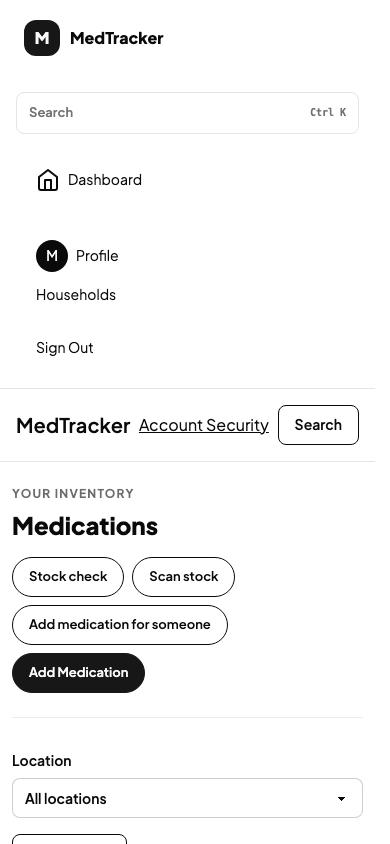
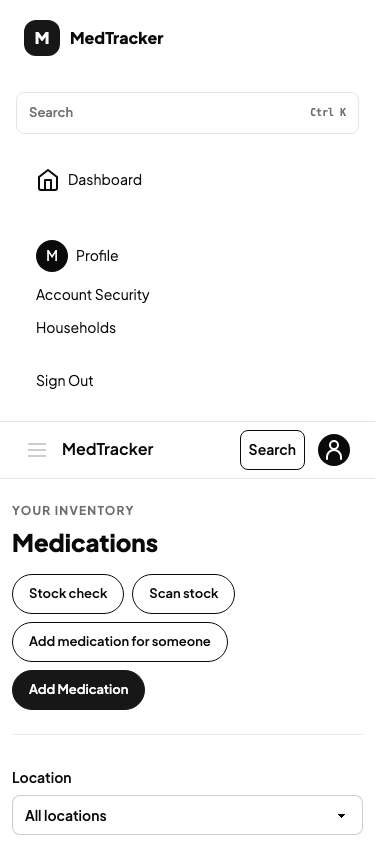
fix: render shared navigation header immediately (#3052)

diff --git a/assets/static/js/app-navigation.js b/assets/static/js/app-navigation.js
@@ -93,12 +93,10 @@
     const header = document.querySelector('.shell-header');
     const sidebar = document.querySelector('.app-sidebar');
     const sidebarTrigger = document.querySelector('[data-sidebar-account]');
-    const template = document.getElementById('app-navigation-template');
     const layout = document.querySelector('[data-app-drawer-layout]');
-    if (!header || !template || !layout || !data?.labels || installed) return;
+    if (!header || !layout || !data?.labels || installed) return;
     const labels = data.labels;
-    const searchTrigger = header?.querySelector('[data-global-search-trigger]');
-    const securityLink = header?.querySelector('a[href="/account/security"]');
+    const securityLink = document.querySelector('[data-account-security-fallback]')?.cloneNode(true);
     const selected = data.selected_section;
     const menu = controls => {
       const list = element('ul', null, 'menu w-full');
@@ -241,6 +239,20 @@
           panel.classList.toggle('dropdown-bottom', trigger !== sidebarTrigger);
           panel.classList.toggle('dropdown-end', trigger !== sidebarTrigger);
         });
+        if (trigger.tagName === 'A') {
+          trigger.setAttribute('role', 'button');
+          trigger.setAttribute('aria-controls', panel.id);
+          trigger.addEventListener('click', event => {
+            event.preventDefault();
+            if (panel.matches(':popover-open')) panel.close();
+            else panel.showPopover({ source: trigger });
+          });
+          trigger.addEventListener('keydown', event => {
+            if (event.key !== ' ') return;
+            event.preventDefault();
+            trigger.click();
+          });
+        }
         trigger.addEventListener('keydown', event => {
           if (event.key !== 'ArrowDown') return;
           event.preventDefault();
@@ -248,6 +260,7 @@
           panel.querySelector('button, a[href]')?.focus({ preventScroll: true });
         });
         trigger.hidden = false;
+        trigger.disabled = false;
       }
       panel.addEventListener('beforetoggle', event => {
         if (event.newState !== 'open') return;
@@ -267,11 +280,10 @@
       return panel;
     };
     if (header) {
-      header.replaceChildren(template.content.cloneNode(true));
-      if (searchTrigger) header.querySelector('.app-header').insertBefore(searchTrigger, header.querySelector('[data-app-account]'));
       const drawerTrigger = header.querySelector('[data-app-drawer]');
       const navigationDrawer = drawer(drawerTrigger);
       drawerTrigger.setAttribute('aria-label', labels.mobile_menu.open_menu);
+      drawerTrigger.disabled = false;
       const navigation = element('nav');
       navigation.setAttribute('aria-label', labels.mobile_rail.primary_navigation);
       const profile = data.choices.find(item => item.id === 'profile');
@@ -282,7 +294,7 @@
       header.querySelector('[data-account-name]').textContent = data.name;
       const avatar = header.querySelector('[data-profile-avatar]');
       avatar.classList.add('relative');
-      avatar.append(element('span', data.initials));
+      if (data.initials) avatar.replaceChildren(element('span', data.initials));
       if (data.avatar_attached || data.gravatar_url) {
         const image = element('img');
         image.src = data.avatar_attached ? `/households/${data.slug}/profile/avatar` : data.gravatar_url;
@@ -307,6 +319,7 @@
       sidebar.querySelector('[data-sidebar-name]').textContent = data.name;
       sidebar.querySelector('[data-sidebar-avatar]').replaceChildren(...[...header.querySelector('[data-profile-avatar]').childNodes].map(node => node.cloneNode(true)));
       sidebar.querySelector('[data-sidebar-profile]').hidden = true;
+      sidebar.querySelector('[data-sidebar-security]').hidden = true;
       const signOut = sidebar.querySelector('form[action="/logout"]');
       if (signOut) {
         signOut.querySelector("button").textContent = labels.sidebar.sign_out;
@@ -316,7 +329,7 @@
     const accountTriggers = [header.querySelector('[data-app-account]'), ...(sidebarTrigger ? [sidebarTrigger] : [])];
     const account = dropdown(accountTriggers);
     const accountControls = [];
-    for (const trigger of accountTriggers) trigger.setAttribute('aria-label', `${data.initials} ${data.name} ${labels.profile_menu.my_account}`);
+    for (const trigger of accountTriggers) trigger.setAttribute('aria-label', [data.initials, data.name, labels.profile_menu.my_account].filter(Boolean).join(' '));
     if (securityLink) {
       securityLink.className = 'min-w-0 whitespace-normal wrap-anywhere';
       accountControls.push(securityLink);
@@ -353,6 +366,25 @@
     account.append(logout());
     document.querySelector('[data-profile-navigation-fallback]')?.remove();
     document.body.dataset.navigationReady = 'true';
+    delete document.body.dataset.navigationFailed;
     installed = true;
   });
+  const standalone = document.querySelector('[data-standalone-navigation]');
+  if (standalone) {
+    const header = document.querySelector('.shell-header');
+    const accountName = header.querySelector('[data-account-name]').textContent;
+    document.dispatchEvent(new CustomEvent('app-navigation', { detail: {
+      labels: {
+        sidebar: { sign_out: standalone.querySelector('button[type="submit"]').textContent },
+        mobile_menu: { brand: header.querySelector('.app-brand').textContent, open_menu: header.querySelector('[data-app-drawer]').getAttribute('aria-label'), close_menu: standalone.dataset.closeMenu },
+        mobile_rail: { primary_navigation: standalone.getAttribute('aria-label') },
+        profile_menu: { my_account: accountName },
+      },
+      name: accountName,
+      navigation_label: standalone.getAttribute('aria-label'),
+      authenticity_token: standalone.querySelector('[name="authenticity_token"]').value,
+      sidebar: [...standalone.querySelectorAll('[data-section]')].map(anchor => ({ id: anchor.dataset.section, href: anchor.getAttribute('href'), label: anchor.textContent })),
+      choices: [],
+    } }));
+  }
 })();

diff --git a/assets/views/layouts/base.html b/assets/views/layouts/base.html
@@ -9,24 +9,27 @@
     <script src="/static/js/appearance.js"></script>
     <script src="/static/js/avatar-image.js"></script>
     <link rel="stylesheet" href="/static/css/compiled.css">
+    <noscript><link rel="stylesheet" href="/static/css/navigation-fallback.css"></noscript>
     <script src="/static/js/interaction.js" defer></script>
     <script src="/static/js/mobile-shortcuts.js" defer></script>
     <script src="/static/js/app-navigation.js" defer></script>
     {% if canary_enabled | default(value=false) %}<script src="/static/js/canary.js" defer></script>{% endif %}
   </head>
   <body{% if slug %} class="app-household"{% endif %}>
-    {% if slug %}<div class="drawer" data-app-drawer-layout><input id="app-drawer-toggle" type="checkbox" class="drawer-toggle" tabindex="-1" aria-hidden="true"><div class="drawer-content">{% endif %}
+    {% if slug or standalone_navigation | default(value=false) %}<div class="drawer" data-app-drawer-layout><input id="app-drawer-toggle" type="checkbox" class="drawer-toggle" tabindex="-1" aria-hidden="true"><div class="drawer-content">{% endif %}
     <a href="#main" class="skip-link">{% if labels %}{{ labels.layouts.navigation.skip_to_content }}{% else %}Skip to content{% endif %}</a>
     {% block header %}
     {% if slug %}{% include "components/app-sidebar.html" %}{% endif %}
     <header class="shell-header">
+      {% if slug or standalone_navigation | default(value=false) %}{% include "components/app-navigation.html" %}{% else %}
       <div class="shell-width shell-header-inner">
         <a href="/" class="text-xl font-semibold" aria-label="{% if labels %}{{ labels.layouts.navigation.home_link }}{% else %}MedTracker home{% endif %}">MedTracker</a>
         <a class="link" href="/account/security">{% if labels %}{{ labels.profiles.account_security.title }}{% else %}Account security{% endif %}</a>
-        {% if slug %}{% block search_trigger %}<button type="button" class="btn btn-outline" data-global-search-trigger aria-label="{% if labels %}{{ labels.global_search.open }}{% else %}Open global search{% endif %}" aria-controls="global_search_panel" aria-expanded="false">{% if labels %}{{ labels.global_search.open_short }}{% else %}Search{% endif %}</button>{% endblock search_trigger %}{% endif %}
       </div>
+      {% endif %}
     </header>
     {% endblock header %}
+    {% if standalone_navigation | default(value=false) %}{% include "components/standalone-navigation.html" %}{% endif %}
     {% if slug %}
     <dialog id="global_search_panel" aria-label="{% if labels %}{{ labels.global_search.dialog_label }}{% else %}Global search{% endif %}" data-global-search data-household="{{ slug }}" data-search-url="/households/{{ slug }}/search.json" data-labels-ready="{% if labels %}true{% else %}false{% endif %}" data-loading="{% if labels %}{{ labels.global_search.loading }}{% else %}Searching...{% endif %}" data-no-results="{% if labels %}{{ labels.global_search.no_results }}{% else %}No results{% endif %}" data-error="{% if labels %}{{ labels.global_search.error }}{% else %}Search is unavailable. Please try again.{% endif %}" data-retry="{% if labels %}{{ labels.global_search.retry }}{% else %}Retry search{% endif %}" data-result-one="{% if labels %}{{ labels.global_search.results.one }}{% else %}1 result{% endif %}" data-result-other="{% if labels %}{{ labels.global_search.results.other }}{% else %}%{count} results{% endif %}" data-type-command="{% if labels %}{{ labels.global_search.types.command }}{% else %}Commands{% endif %}" data-type-person="{% if labels %}{{ labels.global_search.types.person }}{% else %}People{% endif %}" data-type-medication="{% if labels %}{{ labels.global_search.types.medication }}{% else %}Medications{% endif %}" data-type-person-medication="{% if labels %}{{ labels.global_search.types.person_medication }}{% else %}Person medications{% endif %}" data-type-schedule="{% if labels %}{{ labels.global_search.types.schedule }}{% else %}Schedules{% endif %}" data-type-location="{% if labels %}{{ labels.global_search.types.location }}{% else %}Locations{% endif %}" class="modal">
       <div class="modal-box w-11/12 max-w-2xl overflow-hidden p-0">
@@ -37,10 +40,9 @@
     </dialog>
     <script src="/static/js/global-search.js" defer></script>
     {% endif %}
-    {% include "components/app-navigation.html" %}
     <main id="main" class="{% block main_class %}shell-width shell-main{% endblock main_class %}" tabindex="-1">{% if canary_enabled | default(value=false) %}{% include "components/canary-notice.html" %}{% endif %}{% block content %}{% endblock content %}</main>
     {% block footer %}<footer class="shell-footer"><div class="shell-width text-sm shell-muted">MedTracker · {% if labels %}{{ labels.layouts.navigation.care_tagline }}{% else %}Care, kept together.{% endif %}</div></footer>{% endblock footer %}
     {% block appearance %}{% endblock appearance %}
-    {% if slug %}</div><div class="drawer-side app-drawer-side" inert><label for="app-drawer-toggle" class="drawer-overlay" aria-hidden="true"></label><div id="app-drawer" class="app-navigation-panel app-drawer" role="dialog" aria-modal="true" tabindex="-1"></div></div></div>{% endif %}
+    {% if slug or standalone_navigation | default(value=false) %}</div><div class="drawer-side app-drawer-side" inert><label for="app-drawer-toggle" class="drawer-overlay" aria-hidden="true"></label><div id="app-drawer" class="app-navigation-panel app-drawer" role="dialog" aria-modal="true" tabindex="-1"></div></div></div>{% endif %}
   </body>
 </html>

diff --git a/assets/views/components/app-navigation.html b/assets/views/components/app-navigation.html
@@ -1,7 +1,6 @@
-<template id="app-navigation-template">
   <div class="shell-width shell-header-inner app-header">
-    <button type="button" class="btn btn-ghost app-menu-trigger" data-app-drawer aria-haspopup="dialog" aria-controls="app-drawer" aria-expanded="false"><svg width="24" height="24" viewBox="0 0 24 24" fill="none" stroke="currentColor" stroke-width="2" aria-hidden="true"><path d="M3 6h18M3 12h18M3 18h18"/></svg></button>
+    <button type="button" class="btn btn-ghost app-menu-trigger" data-app-drawer aria-label="{% if labels %}{{ labels.layouts.mobile_menu.open_menu }}{% else %}Open menu{% endif %}" aria-haspopup="dialog" aria-controls="app-drawer" aria-expanded="false" disabled><svg width="24" height="24" viewBox="0 0 24 24" fill="none" stroke="currentColor" stroke-width="2" aria-hidden="true"><path d="M3 6h18M3 12h18M3 18h18"/></svg></button>
     <a href="/" class="text-xl font-semibold app-brand" aria-label="{% if labels %}{{ labels.layouts.navigation.home_link }}{% else %}MedTracker home{% endif %}">MedTracker</a>
-    <button type="button" class="btn btn-ghost app-account-trigger" data-app-account aria-haspopup="dialog" aria-controls="app-account" aria-expanded="false"><span class="app-avatar" data-profile-avatar aria-hidden="true"></span> <span data-account-name></span></button>
+    {% if slug %}<button type="button" class="btn btn-outline" data-global-search-trigger aria-label="{% if labels %}{{ labels.global_search.open }}{% else %}Open global search{% endif %}" aria-controls="global_search_panel" aria-expanded="false">{% if labels %}{{ labels.global_search.open_short }}{% else %}Search{% endif %}</button>{% endif %}
+    <a href="/account/security" class="btn btn-ghost app-account-trigger" data-app-account aria-label="{% if labels %}{{ labels.layouts.profile_menu.my_account }}{% else %}My Account{% endif %}"><span class="app-avatar" data-profile-avatar aria-hidden="true"><svg width="24" height="24"><use href="/static/profile-icons.svg#profile"/></svg></span> <span data-account-name>{% if labels %}{{ labels.layouts.profile_menu.my_account }}{% else %}My Account{% endif %}</span></a>
   </div>
-</template>

diff --git a/assets/static/js/mobile-shortcuts.js b/assets/static/js/mobile-shortcuts.js
@@ -18,9 +18,15 @@ async function refreshMobileShortcuts() {
     const headers = { Accept: "application/json" };
     if (document.documentElement.lang) headers["Accept-Language"] = document.documentElement.lang;
     const response = await fetch(`/households/${match[1]}/profile/navigation`, { headers, cache: 'no-store' });
-    if (!response.ok || !response.headers.get('content-type')?.includes('application/json')) return;
+    if (!response.ok || !response.headers.get('content-type')?.includes('application/json')) {
+      document.body?.setAttribute('data-navigation-failed', 'true');
+      return;
+    }
     const data = await response.json();
-    if (!Array.isArray(data.links) || data.links.length > 3) return;
+    if (!Array.isArray(data.links) || data.links.length > 3 || !data.shell?.labels) {
+      document.body?.setAttribute('data-navigation-failed', 'true');
+      return;
+    }
     const selectedSection = navigationSection(location.pathname, data.shell?.choices || []);
     const navigation = document.querySelector('[data-mobile-shortcuts]') || document.createElement('nav');
     navigation.dataset.mobileShortcuts = '';
@@ -50,7 +56,11 @@ async function refreshMobileShortcuts() {
     if (!navigation.isConnected) (document.querySelector('.drawer-content') || document.body).append(navigation);
     document.body.classList.add('pb-[calc(4rem+env(safe-area-inset-bottom))]', 'lg:pb-0');
     document.dispatchEvent(new CustomEvent('app-navigation', { detail: { ...data.shell, slug: match[1], selected_section: selectedSection } }));
-  } catch { }
+    if (document.body && !document.body.hasAttribute('data-navigation-ready')) {
+      document.body.dataset.navigationFailed = 'true';
+      for (const link of document.querySelectorAll('[data-sidebar-profile], [data-sidebar-security]')) link.hidden = false;
+    }
+  } catch { document.body?.setAttribute('data-navigation-failed', 'true'); }
 }
 document.addEventListener('DOMContentLoaded', refreshMobileShortcuts);
 document.addEventListener('profile-saved', refreshMobileShortcuts);

diff --git a/assets/views/components/app-sidebar.html b/assets/views/components/app-sidebar.html
@@ -9,6 +9,7 @@
   <div class="app-sidebar-account">
     <ul class="menu w-full">
       <li><a class="min-w-0 whitespace-normal wrap-anywhere" href="/households/{{ slug }}/profile" data-sidebar-profile><span class="app-avatar" aria-hidden="true">M</span><span class="min-w-0 wrap-anywhere">{% if labels %}{{ labels.layouts.profile_menu.profile }}{% else %}Profile{% endif %}</span></a></li>
+      <li><a class="min-w-0 whitespace-normal wrap-anywhere" href="/account/security" data-sidebar-security data-account-security-fallback>{% if labels %}{{ labels.profiles.account_security.title }}{% else %}Account security{% endif %}</a></li>
       <li><button type="button" class="min-w-0 whitespace-normal wrap-anywhere" data-sidebar-account aria-haspopup="dialog" aria-controls="app-account" aria-expanded="false" hidden><span class="app-avatar" data-sidebar-avatar aria-hidden="true"></span> <span class="min-w-0 wrap-anywhere" data-sidebar-name></span></button></li>
       <li><a class="min-w-0 whitespace-normal wrap-anywhere" href="/households/choose?switch=1">{% if labels %}{{ labels.layouts.profile_menu.households }}{% else %}Households{% endif %}</a></li>
     </ul>

diff --git a/assets/static/css/shared-layout.css b/assets/static/css/shared-layout.css
@@ -31,8 +31,8 @@
 .app-household .dashboard-page { padding:0; }
 @media (min-width:1024px) { .app-household .shell-header:not(:has(.app-header)) { padding-right:1rem; } }
 @media (max-width:1023px) {
-  .app-sidebar { position:static; width:auto; padding:1rem; border-right:0; border-bottom:1px solid var(--border-color); }
-  .app-household[data-navigation-ready] .app-sidebar { display:none; }
+  .app-sidebar { position:static; display:none; width:auto; padding:1rem; border-right:0; border-bottom:1px solid var(--border-color); }
+  .app-household[data-navigation-failed]:not([data-navigation-ready]) .app-sidebar { display:flex; }
   .app-household .shell-header, .app-household .shell-header:has(.app-header) { position:sticky; top:0; right:auto; z-index:25; margin-left:0; border-bottom:1px solid var(--border-color); background:var(--surface-container-lowest); }
   .app-household .shell-header .app-header { padding-block:.5rem; gap:.25rem; }
   .app-household .shell-header .app-brand, .app-household .shell-header [data-app-drawer], .app-household .shell-header [data-global-search-trigger], .app-household .shell-header .app-account-trigger { display:flex; }

diff --git a/assets/static/js/profile.js b/assets/static/js/profile.js
@@ -90,7 +90,7 @@ document.addEventListener('submit', async event => {
     const personal = documentResult.querySelector('[data-testid="profile-personal-info-card"]');
     for (const summary of documentResult.querySelectorAll('[data-profile-summary][id]')) document.getElementById(summary.id)?.replaceWith(summary);
     if (personal) document.querySelector('[data-testid="profile-personal-info-card"]')?.replaceWith(personal);
-    const avatar = documentResult.querySelector('[data-profile-avatar]');
+    const avatar = documentResult.querySelector('main [data-profile-avatar]');
     if (avatar) for (const current of document.querySelectorAll('[data-profile-avatar], [data-sidebar-avatar]')) current.replaceChildren(...avatar.cloneNode(true).childNodes);
     if (dialog) dialog.close();
     else (region ? document.getElementById(region.id) : replacement)?.querySelector('[type="submit"]')?.focus();

diff --git a/assets/views/components/standalone-navigation.html b/assets/views/components/standalone-navigation.html
@@ -1,0 +1,9 @@
+<nav class="shell-width py-4" aria-label="Primary navigation" data-standalone-navigation data-profile-navigation-fallback data-close-menu="Close menu">
+  <ul class="menu menu-horizontal flex-wrap">
+    <li><a href="/households/choose?switch=1" data-section="dashboard">Households</a></li>
+    <li><a href="/platform/users" data-section="administration">Platform administration</a></li>
+    <li><a href="/admin/nhs-dmd" data-section="inventory">NHS dm+d catalogue</a></li>
+    <li><a href="/account/security" data-account-security-fallback>Account security</a></li>
+  </ul>
+  <form method="post" action="/logout"><input type="hidden" name="authenticity_token" value="{{ authenticity_token }}"><button type="submit" class="btn btn-ghost">Sign Out</button></form>
+</nav>

diff --git a/assets/static/css/navigation-fallback.css b/assets/static/css/navigation-fallback.css
@@ -1,0 +1,3 @@
+@media (max-width: 1023px) {
+  .app-household .app-sidebar { display:flex; }
+}

diff --git a/src/controllers/nhs_dmd.rs b/src/controllers/nhs_dmd.rs
@@ -68,6 +68,7 @@ async fn render(
         return unavailable();
     };
     let mut data = rendering::appearance_context();
+    data["standalone_navigation"] = json!(true);
     data["title"] = json!("NHS dm+d catalogue");
     data["authenticity_token"] = json!(authenticity);
     data["error"] = json!(error.map(crate::controllers::medications::forms::message));
